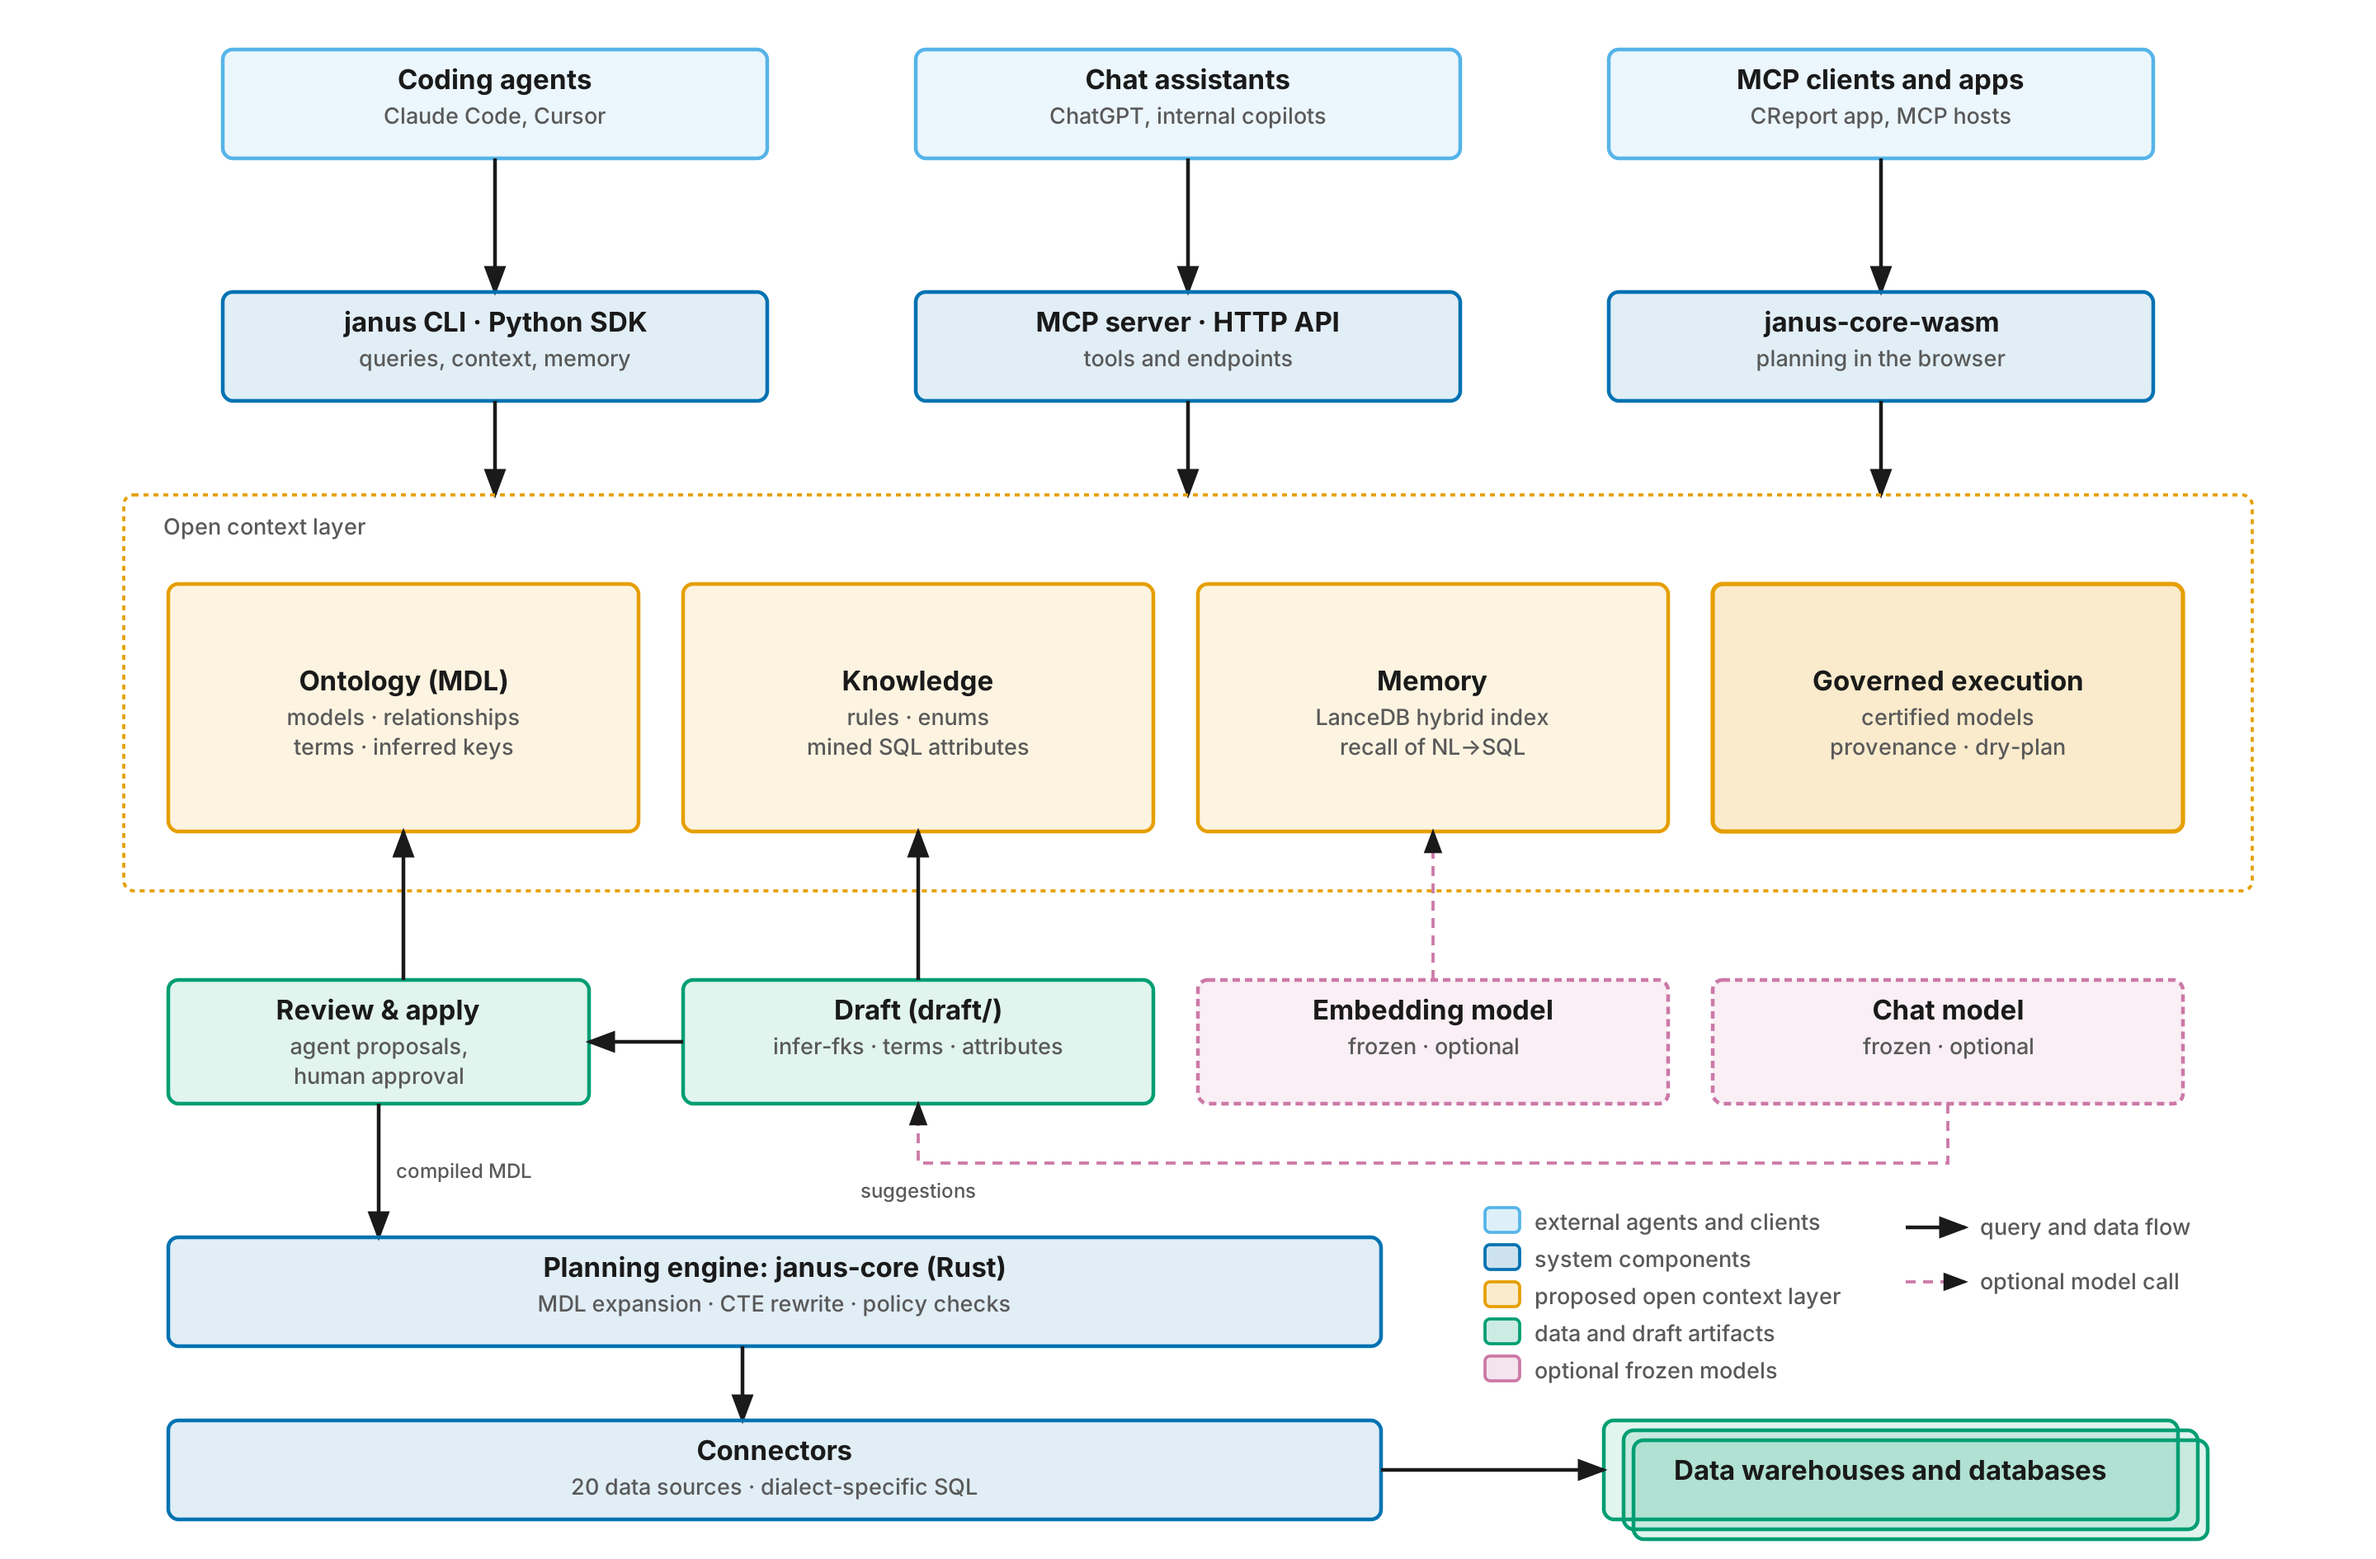
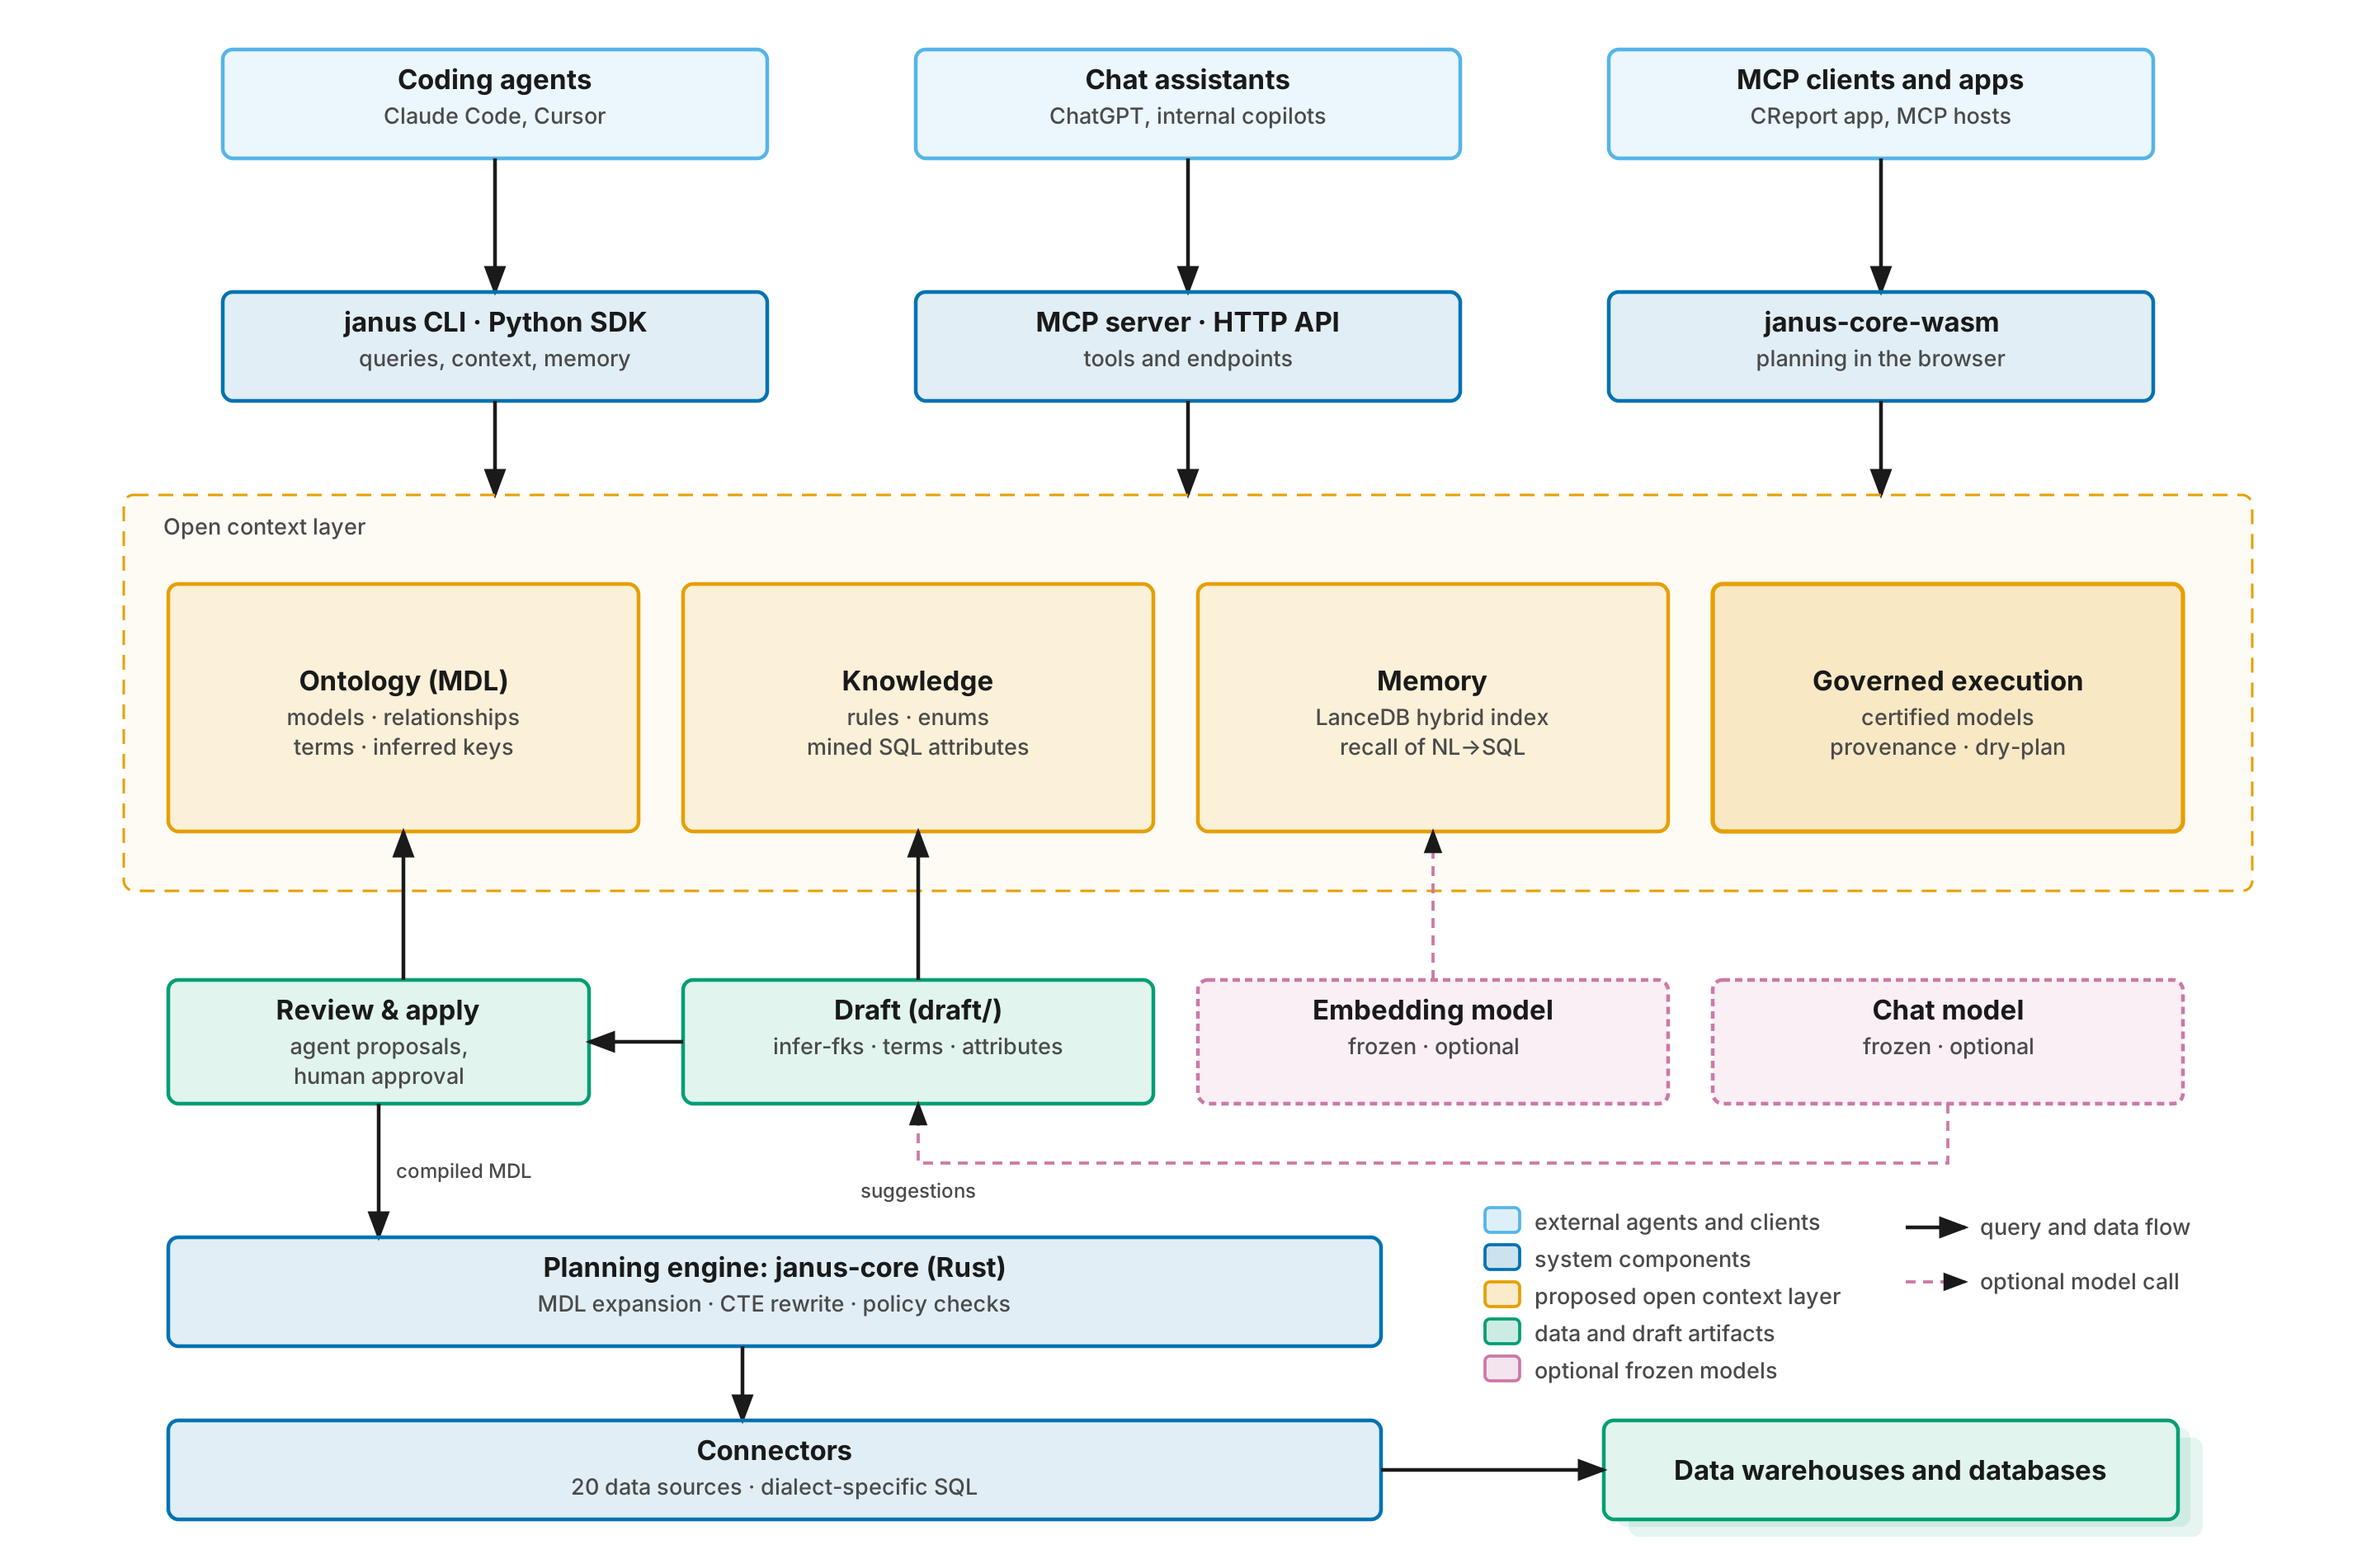
docs: polish the color architecture figure
The open context layer is a faint warm field with a finer dashed border, not
a heavy outline. The data sources are one card with a tinted offset behind it,
instead of stacked outlines. Secondary text is darker for readability. The
layout and palette are unchanged.

Claude-Session: https://claude.ai/code/session_01BkXiZyAvrb5AEnaFz3NP9n

Changed region(s): [[0.6562, 0.9053, 0.9375, 0.9989]]

diff --git a/docs/diagrams/academic/gen_fig_janus_architecture_color.py b/docs/diagrams/academic/gen_fig_janus_architecture_color.py
@@ -16,7 +16,7 @@ from pathlib import Path
 
 W, H = 960, 630
 INK = "#1a1a1a"
-MUTED = "#595959"
+MUTED = "#4a4a4a"
 SKY = "#56B4E9"
 BLUE = "#0072B2"
 ORANGE = "#E69F00"
@@ -100,8 +100,9 @@ for cx, (t, s) in zip(agent_cols, [
 # 3. open context layer (orange: the proposed layer)
 for cx in agent_cols:
     line(cx, 162, cx, 200)
-add(f'  <rect x="50" y="200" width="860" height="160" rx="4" ry="4" fill="none" '
-    f'stroke="{ORANGE}" stroke-width="1.25" stroke-dasharray="2,2"/>')
+add(f'  <rect x="50" y="200" width="860" height="160" rx="4" ry="4" '
+    f'fill="{ORANGE}" fill-opacity="0.04" stroke="{ORANGE}" stroke-width="1" '
+    f'stroke-dasharray="6,4"/>')
 label(66, 216, "Open context layer", size=9)
 pillars = [
     (68, "Ontology (MDL)", "models · relationships", "terms · inferred keys", False),
@@ -133,11 +134,13 @@ box(68, 500, 490, 44, "Planning engine: janus-core (Rust)",
 # 6. connectors (blue) and data sources (green)
 line(300, 544, 300, 574)
 box(68, 574, 490, 40, "Connectors", "20 data sources · dialect-specific SQL", color=BLUE)
-for dx, dy in [(12, 8), (8, 4)]:
+for dx, dy in [(10, 7), (5, 3)]:
     add(f'  <rect x="{648 + dx}" y="{574 + dy}" width="232" height="40" rx="4" '
-        f'ry="4" fill="{GREEN}" fill-opacity="0.12" stroke="{GREEN}" stroke-width="1.5"/>')
+        f'ry="4" fill="{GREEN}" fill-opacity="0.10"/>')
 add(f'  <rect x="648" y="574" width="232" height="40" rx="4" ry="4" '
-    f'fill="{GREEN}" fill-opacity="0.12" stroke="{GREEN}" stroke-width="1.5"/>')
+    f'fill="#ffffff" stroke="{GREEN}" stroke-width="1.5"/>')
+add(f'  <rect x="648" y="574" width="232" height="40" rx="4" ry="4" '
+    f'fill="{GREEN}" fill-opacity="0.12"/>')
 add(f'  <text x="764" y="598" text-anchor="middle" font-size="11" font-weight="600" '
     f'fill="{INK}">Data warehouses and databases</text>')
 line(558, 594, 648, 594)
